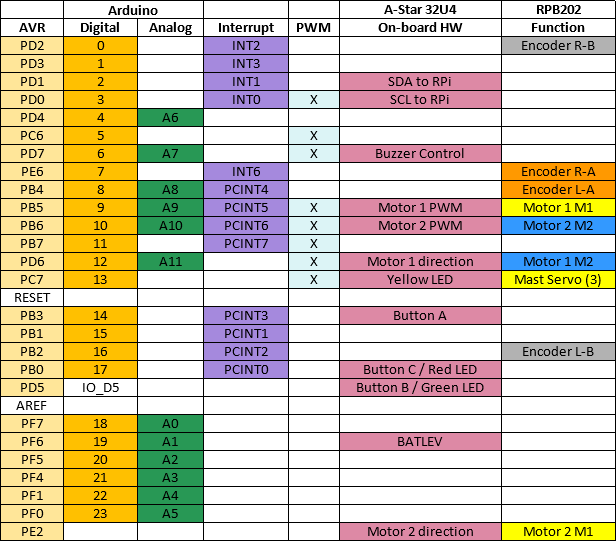
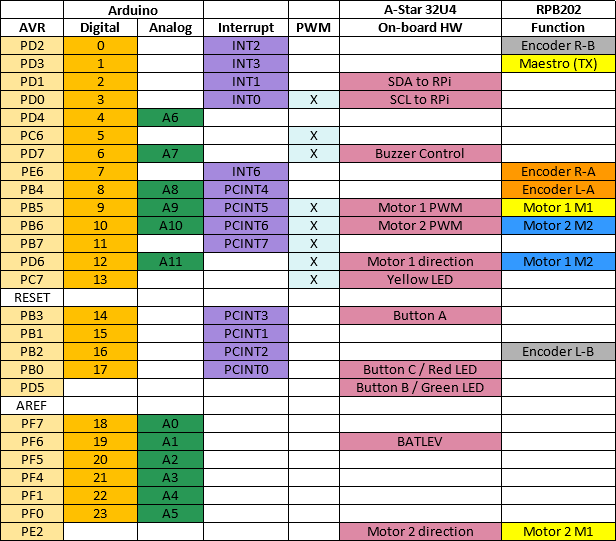
Added servo control via MiniMaestro

Changed region(s): [[0.8019, 0.0887, 1.0, 0.1479], [0.8019, 0.5028, 1.0, 0.5323], [0.1234, 0.7098, 0.1851, 0.7394]]

diff --git a/pi/astar.py b/pi/astar.py
@@ -48,6 +48,9 @@ class AStar:
         self._y = 0
         self._phi =0
         self._batteryMV = 0
+        self._panServo = 0      # Servo is disabled by default
+        self._tiltServo = 0     # Servo is disabled by default
+        self._mastServo = 0     # Servo is disabled by default
         self._notes = ''
         self._resetOdometer = True
         self.run()
@@ -128,8 +131,13 @@ class AStar:
                 # LEDs
                 self._write_pack(0, 'BBB', self.ledYellow, self.ledGreen, \
                     self.ledRed)
+                # Servos
+                self._write_pack(19, 'HHH', self._panServo, self._tiltServo, \
+                    self._mastServo)
                 # Notes
-                self._write_pack(19, 'B15s', 1, self._notes.encode('ascii'))
+                if self._notes != "":
+                    self._write_pack(25, 'B15s', 1, self._notes.encode('ascii'))
+                    self._notes = ""
                 # Motors (turn rate in 1/1000 of radians / s)
                 turnRate = int(self._turnRate * 1000)
                 self._write_pack(6, 'hh', self._fwdSpeed, turnRate)
@@ -167,26 +175,38 @@ class AStar:
         """Returns the x and y position of the robot from the odometer in mm."""
         return self._x, self._y
 
-    def setYellowLED(self, value):
+    def setYellowLED(self, value = 0):
         """Sets the A-Star yellow led status (0 = Off, 1 = On)."""
         if value == 0:
             self.ledYellow = 0
         else:
             self.ledYellow = 1
 
-    def setGreenLED(self, value):
+    def setGreenLED(self, value = 0):
         """Sets the A-Star green led status (0 = Off, 1 = On)."""
         if value == 0:
             self.ledGreen = 0
         else:
             self.ledGreen = 1
 
-    def setRedLED(self, value):
+    def setRedLED(self, value = 0):
         """Sets the A-Star red led status (0 = Off, 1 = On)."""
         if value == 0:
             self.ledRed = 0
         else:
             self.ledRed = 1
+
+    def setPanServo(self, us_4 = 0):
+        """Sets the pan servo pulse width value in quarter-microseconds."""
+        self._panServo = us_4
+
+    def setTiltServo(self, us_4 = 0):
+        """Sets the tilt servo pulse width value in quarter-microseconds."""
+        self._tiltServo = us_4
+
+    def setMastServo(self, us_4 = 0):
+        """Sets the mast servo pulse width value in quarter-microseconds."""
+        self._mastServo = us_4
 
     def playNotes(self, notes):
         """Play the specified notes on the A-Star buzzer. Refer to the Pololu
@@ -197,7 +217,7 @@ class AStar:
         """Resets the odometer on the A-Star."""
         self._resetOdometer = True
 
-    def setSpeeds(self, fwdSpeed, turnRate):
+    def setSpeeds(self, fwdSpeed = 0, turnRate = 0):
         """Sets the robot speed in mm/s and turn rate in radians/s"""
         self._fwdSpeed = fwdSpeed
         self._turnRate = turnRate
